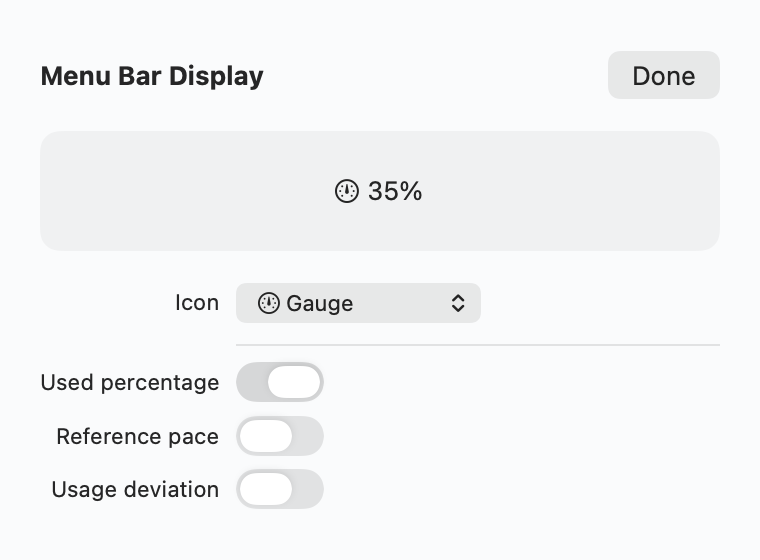
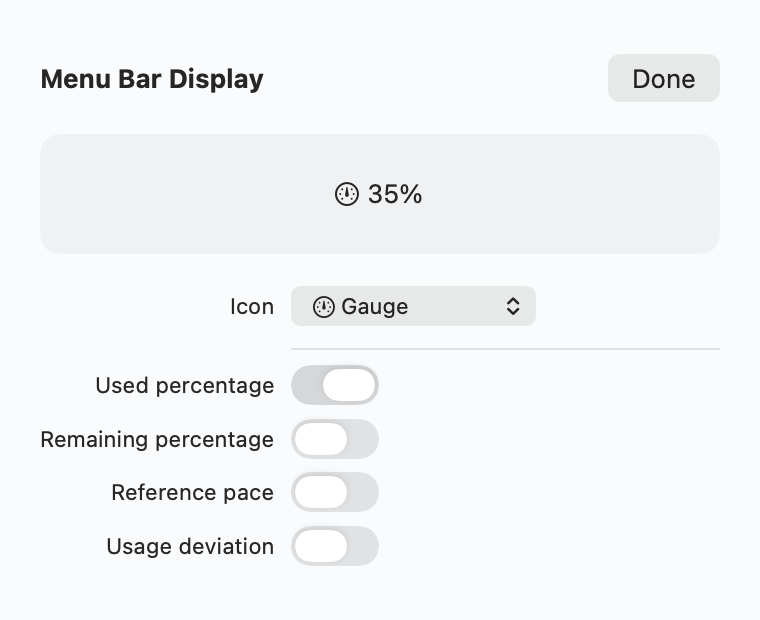
feat: add remaining quota menu bar option and about links

diff --git a/CodexWatcher/StatusBarController.swift b/CodexWatcher/StatusBarController.swift
@@ -81,6 +81,7 @@ final class StatusBarController: NSObject, NSPopoverDelegate {
         let config = MenuBarConfiguration(
             icon: MenuBarIcon(rawValue: defaults.string(forKey: "menuBarIcon") ?? "") ?? .gauge,
             showUsage: defaults.object(forKey: "menuBarShowUsage") as? Bool ?? true,
+            showRemaining: defaults.bool(forKey: "menuBarShowRemaining"),
             showTimeProgress: defaults.bool(forKey: "menuBarShowTimeProgress"),
             showDeviation: defaults.bool(forKey: "menuBarShowDeviation"))
         let quota = monitor.account == nil ? nil : monitor.selectedWindow?.quota
@@ -94,7 +95,7 @@ final class StatusBarController: NSObject, NSPopoverDelegate {
         if let quota {
             let format = PresentationFormat()
             let deviation = isStale ? nil : quota.deviation(at: monitor.displayDate)
-            item.button?.setAccessibilityValue(L10n.text("已用 \(format.percent(quota.usedPercent))；参考进度 \(quota.standardPercent(at: monitor.displayDate).map { format.percent($0) } ?? L10n.text("未知"))；偏移 \(deviation.map { format.deviation($0) } ?? L10n.text("待更新"))"))
+            item.button?.setAccessibilityValue(L10n.text("已用 \(format.percent(quota.usedPercent))；剩余 \(format.percent(max(0, 100 - quota.usedPercent)))；参考进度 \(quota.standardPercent(at: monitor.displayDate).map { format.percent($0) } ?? L10n.text("未知"))；偏移 \(deviation.map { format.deviation($0) } ?? L10n.text("待更新"))"))
         } else {
             item.button?.setAccessibilityValue(L10n.text("暂无额度数据"))
         }
@@ -704,8 +705,7 @@ final class StatusBarController: NSObject, NSPopoverDelegate {
         NSWorkspace.shared.open(URL(string: "https://github.com/ximatai/CodexWatcher/blob/main/docs/USAGE.md")!)
     }
     @objc private func showAbout() {
-        NSApp.activate(ignoringOtherApps: true)
-        NSApp.orderFrontStandardAboutPanel(nil)
+        AboutPanel.show()
     }
     @objc private func toggleEmailPrivacy() {
         let defaults = UserDefaults.standard

diff --git a/CodexWatcher/MenuBarSettingsView.swift b/CodexWatcher/MenuBarSettingsView.swift
@@ -6,14 +6,15 @@ struct MenuBarSettingsView: View {
     @Environment(\.dismiss) private var dismiss
     @AppStorage("menuBarIcon") private var icon = MenuBarIcon.gauge.rawValue
     @AppStorage("menuBarShowUsage") private var showUsage = true
+    @AppStorage("menuBarShowRemaining") private var showRemaining = false
     @AppStorage("menuBarShowTimeProgress") private var showTimeProgress = false
     @AppStorage("menuBarShowDeviation") private var showDeviation = false
 
     private var configuration: MenuBarConfiguration {
-        .init(icon: MenuBarIcon(rawValue: icon) ?? .gauge, showUsage: showUsage,
+        .init(icon: MenuBarIcon(rawValue: icon) ?? .gauge, showUsage: showUsage, showRemaining: showRemaining,
               showTimeProgress: showTimeProgress, showDeviation: showDeviation)
     }
-    private var textCount: Int { [showUsage, showTimeProgress, showDeviation].filter { $0 }.count }
+    private var textCount: Int { [showUsage, showRemaining, showTimeProgress, showDeviation].filter { $0 }.count }
     private var previewTitle: String {
         configuration.title(quota: monitor.account == nil ? nil : monitor.selectedWindow?.quota,
                             at: monitor.displayDate,
@@ -48,6 +49,8 @@ struct MenuBarSettingsView: View {
                 Divider().padding(.vertical, 4)
                 Toggle("已用百分比", isOn: $showUsage)
                     .disabled(icon == MenuBarIcon.none.rawValue && showUsage && textCount == 1)
+                Toggle("剩余百分比", isOn: $showRemaining)
+                    .disabled(icon == MenuBarIcon.none.rawValue && showRemaining && textCount == 1)
                 Toggle("参考进度", isOn: $showTimeProgress)
                     .help("按额度周期的自然时间计算，包含睡眠和休息时间。")
                     .disabled(icon == MenuBarIcon.none.rawValue && showTimeProgress && textCount == 1)

diff --git a/Tests/MenuBarConfigurationTests.swift b/Tests/MenuBarConfigurationTests.swift
@@ -41,11 +41,28 @@ final class MenuBarConfigurationTests: XCTestCase {
                        "40% · —% · —pp")
     }
 
+    func testRemainingPercentageIsIndependentAndKeepsLastKnownData() {
+        let format = PresentationFormat(locale: Locale(identifier: "en_US"))
+        var config = MenuBarConfiguration(icon: .none, showUsage: false, showRemaining: true)
+        XCTAssertEqual(config.title(quota: quota, at: date, format: format), "60%")
+        XCTAssertEqual(config.title(quota: quota, at: date, format: format, isStale: true), "60%")
+        XCTAssertEqual(config.title(quota: nil, at: date, format: format), "—%")
+        XCTAssertNil(config.effectiveSymbol)
+        for (used, expected) in [(0.0, "100%"), (100.0, "0%"), (110.0, "0%")] {
+            let boundary = QuotaWindow(usedPercent: used, windowDurationMins: 100, resetsAt: quota.resetsAt)
+            XCTAssertEqual(config.title(quota: boundary, at: date, format: format), expected)
+        }
+        config.showUsage = true
+        config.showTimeProgress = true
+        config.showDeviation = true
+        XCTAssertEqual(config.title(quota: quota, at: date, format: format), "40% · 60% · 25% · +15.0pp")
+    }
+
     @MainActor
     func testEveryIconAndTextCombinationKeepsVisibleMenuAccess() throws {
         for icon in MenuBarIcon.allCases {
-            for mask in 0..<8 {
-                let config = MenuBarConfiguration(icon: icon, showUsage: mask & 1 != 0,
+            for mask in 0..<16 {
+                let config = MenuBarConfiguration(icon: icon, showUsage: mask & 1 != 0, showRemaining: mask & 8 != 0,
                                                   showTimeProgress: mask & 2 != 0, showDeviation: mask & 4 != 0)
                 let title = config.title(quota: quota, at: date)
                 XCTAssertTrue(config.effectiveSymbol != nil || !title.isEmpty)

diff --git a/Package.swift b/Package.swift
@@ -7,7 +7,7 @@ let package = Package(
     platforms: [.macOS(.v14)],
     targets: [
         .target(name: "WatcherCore", path: "CodexWatcher",
-                exclude: ["UsageTrendView.swift", "MyApp.swift", "ContentView.swift", "PrivacyMask.swift", "MenuBarSettingsView.swift", "ResetConfirmationView.swift", "ResetConfirmationContent.swift", "StatusBarController.swift", "CreditExpirySettingsView.swift", "CreditExpiryNotifications.swift", "AutomaticHelloSettingsView.swift", "ReleaseUpdateUI.swift", "Assets.xcassets", "Localizable.xcstrings"],
+                exclude: ["AboutPanel.swift", "UsageTrendView.swift", "MyApp.swift", "ContentView.swift", "PrivacyMask.swift", "MenuBarSettingsView.swift", "ResetConfirmationView.swift", "ResetConfirmationContent.swift", "StatusBarController.swift", "CreditExpirySettingsView.swift", "CreditExpiryNotifications.swift", "AutomaticHelloSettingsView.swift", "ReleaseUpdateUI.swift", "Assets.xcassets", "Localizable.xcstrings"],
                 sources: ["Localization.swift", "UsageTrend.swift", "UsageModels.swift", "UsageMonitor.swift", "AppServerClient.swift", "ResetAttemptStore.swift", "PresentationFormat.swift", "MenuBarLabelRenderer.swift", "MenuBarConfiguration.swift", "AppTheme.swift", "LoginItemController.swift", "CreditExpiryHandling.swift", "CreditExpiryRuntime.swift", "PopoverDismissalState.swift", "AutomaticHello.swift", "AutomaticHelloSession.swift", "ReleaseUpdateChecker.swift"],
                 resources: [ .process("PackageLocalization")]),
         .testTarget(name: "WatcherCoreTests", dependencies: ["WatcherCore"], path: "Tests")

diff --git a/CodexWatcher/AboutPanel.swift b/CodexWatcher/AboutPanel.swift
@@ -1,0 +1,27 @@
+import AppKit
+
+@MainActor
+enum AboutPanel {
+    static func show() {
+        let paragraph = NSMutableParagraphStyle()
+        paragraph.alignment = .center
+        let style: [NSAttributedString.Key: Any] = [
+            .font: NSFont.systemFont(ofSize: 12),
+            .foregroundColor: NSColor.labelColor,
+            .paragraphStyle: paragraph
+        ]
+        let credits = NSMutableAttributedString(string: "GitHub", attributes: style)
+        credits.addAttribute(.link, value: URL(string: "https://github.com/ximatai/CodexWatcher")!,
+                             range: NSRange(location: 0, length: credits.length))
+        credits.append(NSAttributedString(string: "  ·  ", attributes: style))
+        var websiteStyle = style
+        websiteStyle[.link] = URL(string: "https://ximatai.net/apps")!
+        credits.append(NSAttributedString(string: L10n.text("更多作品"), attributes: websiteStyle))
+        NSApp.activate(ignoringOtherApps: true)
+        // AppKit reads the version from this application's Info.plist.
+        NSApp.orderFrontStandardAboutPanel(options: [
+            .credits: credits,
+            NSApplication.AboutPanelOptionKey(rawValue: "Copyright"): "© 2026 Rui Liu"
+        ])
+    }
+}

diff --git a/scripts/DocumentationPreview.swift b/scripts/DocumentationPreview.swift
@@ -141,8 +141,15 @@ struct DocumentationPreview {
         await monitor.waitForTrendPersistence()
         defaults.set("light", forKey: "appearance")
         try await render(MenuBarSettingsView(monitor: monitor).defaultAppStorage(defaults),
-                         size: NSSize(width: 380, height: 280), dark: false,
+                         size: NSSize(width: 380, height: 310), dark: false,
                          to: output.appendingPathComponent("menu-bar-settings.png"))
+        defaults.set(false, forKey: "menuBarShowUsage")
+        defaults.set(true, forKey: "menuBarShowRemaining")
+        try await render(MenuBarSettingsView(monitor: monitor).defaultAppStorage(defaults),
+                         size: NSSize(width: 380, height: 310), dark: false,
+                         to: output.appendingPathComponent("menu-bar-remaining.png"))
+        defaults.set(true, forKey: "menuBarShowUsage")
+        defaults.set(false, forKey: "menuBarShowRemaining")
         let resetStore = ResetAttemptStore(directory: temporary.appendingPathComponent("State"))
         let pending = try resetStore.prepareNew(creditID: "demo-card-1", owner: "documentation-demo")!
         await monitor.refresh()

diff --git a/CodexWatcher/MenuBarConfiguration.swift b/CodexWatcher/MenuBarConfiguration.swift
@@ -28,6 +28,7 @@ enum MenuBarIcon: String, CaseIterable, Identifiable {
 struct MenuBarConfiguration {
     var icon: MenuBarIcon = .gauge
     var showUsage = true
+    var showRemaining = false
     var showTimeProgress = false
     var showDeviation = false
 
@@ -35,6 +36,7 @@ struct MenuBarConfiguration {
                isStale: Bool = false) -> String {
         var parts: [String] = []
         if showUsage { parts.append(quota.map { format.percent($0.usedPercent) } ?? "—%") }
+        if showRemaining { parts.append(quota.map { format.percent(max(0, 100 - $0.usedPercent)) } ?? "—%") }
         if showTimeProgress {
             parts.append(quota?.standardPercent(at: date).map { format.percent($0) } ?? "—%")
         }
@@ -47,6 +49,6 @@ struct MenuBarConfiguration {
 
     // Preserve access even if preferences were edited externally into an empty label.
     var effectiveSymbol: String? {
-        icon.symbol ?? (!showUsage && !showTimeProgress && !showDeviation ? MenuBarIcon.gauge.symbol : nil)
+        icon.symbol ?? (!showUsage && !showRemaining && !showTimeProgress && !showDeviation ? MenuBarIcon.gauge.symbol : nil)
     }
 }

diff --git a/CodexWatcher/MyApp.swift b/CodexWatcher/MyApp.swift
@@ -42,7 +42,7 @@ final class WatcherAppDelegate: NSObject, NSApplicationDelegate {
             var preferences = UserDefaults.standard.volatileDomain(forName: UserDefaults.argumentDomain)
             let fixturePreferences: [String: Any] = [
                 "appearance": "system", "privacyMode": false,
-                "menuBarIcon": "gauge", "menuBarShowUsage": true,
+                "menuBarIcon": "gauge", "menuBarShowUsage": true, "menuBarShowRemaining": false,
                 "menuBarShowTimeProgress": false, "menuBarShowDeviation": false
             ]
             preferences.merge(fixturePreferences) { _, fixture in fixture }

diff --git a/CodexWatcher/ContentView.swift b/CodexWatcher/ContentView.swift
@@ -648,7 +648,7 @@ private struct DashboardContent: View {
                             .disabled(updates.isChecking)
                     }
                     Button("使用帮助") { NSWorkspace.shared.open(URL(string: "https://github.com/ximatai/CodexWatcher/blob/main/docs/USAGE.md")!) }
-                    Button("关于 Codex Watcher") { NSApp.orderFrontStandardAboutPanel(nil) }
+                    Button("关于 Codex Watcher") { AboutPanel.show() }
                 } label: {
                     Image(systemName: "gearshape").font(.system(size: 14)).foregroundStyle(.secondary)
                 }

diff --git a/docs/USAGE.md b/docs/USAGE.md
@@ -30,11 +30,13 @@
 
 ## 状态栏与外观
 
+「关于 Codex Watcher」保留应用版本，并提供 GitHub · [更多作品](https://ximatai.net/apps)单行链接；面板设置菜单和状态栏右键菜单均可打开。
+
 左键点击状态栏打开用量面板，右键或 Control 点按打开设置菜单；面板底栏齿轮提供相同入口。
 
 独立窗口可以调整大小，菜单栏面板根据屏幕可用高度显示并支持滚动；账号、错误恢复入口和底栏保持可见。刷新期间仍可调整外观、隐藏邮箱和状态栏显示，账号退出及 CLI 切换等待请求结束。
 
-「状态栏显示…」可以选择仪表盘、用量图表、闪电、圆环或无图标，并独立开关已用百分比、参考进度和偏移。启用的文本按此顺序排列，偏移单位 `pp` 表示百分点。数值对应当前选择的额度窗口，至少保留图标或一项文本。
+「状态栏显示…」可以选择仪表盘、用量图表、闪电、圆环或无图标，并独立开关已用百分比、剩余百分比、参考进度和偏移。启用的文本按此顺序排列，偏移单位 `pp` 表示百分点。数值对应当前选择的额度窗口，至少保留图标或一项文本。剩余百分比默认关闭，开启后立即生效并保存；如果只想显示剩余量，可关闭已用百分比。
 
 <img src="images/menu-bar-settings.png" alt="状态栏显示配置，使用虚构演示数据" width="380">
 

diff --git a/docs/images/README.md b/docs/images/README.md
@@ -17,6 +17,7 @@
 | [usage-trend-summary-row.png](usage-trend-summary-row.png) | 长时长预测摘要在 350 点宽度下单行展示；[英文预览](en/usage-trend-summary-row.png) |
 | [dashboard-pro-short-only.png](dashboard-pro-short-only.png) | Pro 仅返回短周期额度，不显示 7 天窗口 |
 | [menu-bar-settings.png](menu-bar-settings.png) | 状态栏设置与数值预览 |
+| [menu-bar-remaining.png](menu-bar-remaining.png) | 仅显示剩余百分比的配置与预览 |
 | [reset-confirmation.png](reset-confirmation.png) | 重置确认页 |
 | [credit-expiry-reminder.png](credit-expiry-reminder.png) | 临期处理的提醒模式 |
 | [credit-expiry-automatic.png](credit-expiry-automatic.png) | 临期处理的自动模式 |

diff --git a/CHANGELOG.md b/CHANGELOG.md
@@ -2,6 +2,12 @@
 
 ## 未发布
 
+## 0.4.5 — 2026-10-29
+
+- 关于窗口增加 GitHub 与更多作品单行链接；统一两个设置菜单的入口，并将本地构建默认版本校准为 0.4.5，关于窗口继续读取应用自身版本。
+
+- 状态栏显示新增独立的剩余百分比开关，支持实时预览和持久保存；默认关闭，延续现有显示配置。
+
 ## 0.4.4 — 2026-10-29
 
 - 将预计耗尽时间与早于重置的时间差合并为左右对齐的一行，精简文案并使用紧凑时长；空间不足时保留完整文字换行显示。
